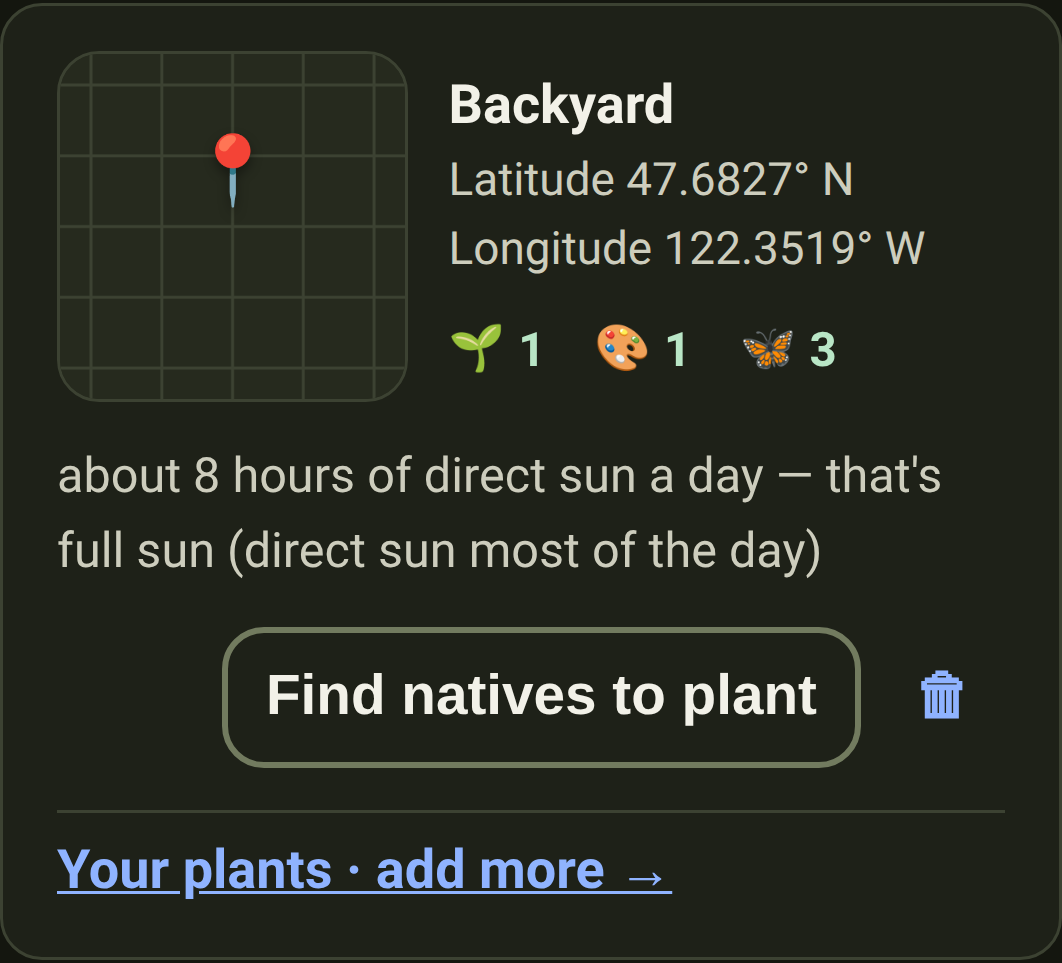
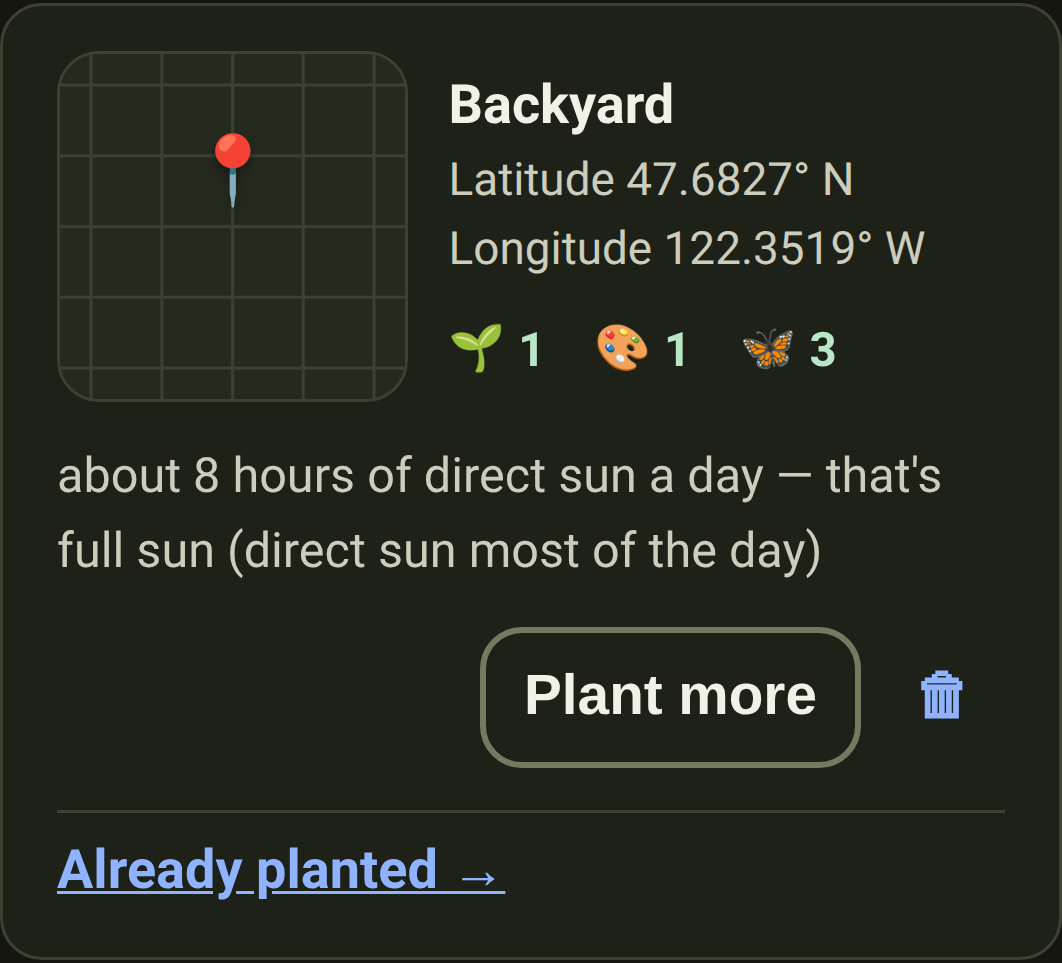
Saved spot: "Plant more" and "Already planted →"
The saved card's button and the spot page's matching button read "Plant
more"; the log link reads "Already planted →", or "Start a plant log →"
when nothing's logged. French: "Planter plus", "Déjà planté →",
"Commencer un journal →".

Claude-Session: https://claude.ai/code/session_018zzsiDNQMxPTZfDvDW2S5X

diff --git a/app/src/locales/fr.ts b/app/src/locales/fr.ts
@@ -262,7 +262,7 @@ export const fr: Dict = {
     "Rien d'enregistré pour l'instant. Trouvez un lieu et touchez « Enregistrer ce lieu » pour le garder ici, sur votre téléphone.",
   "saved.find": "Trouver un lieu",
   "saved.sunUnknown": "Soleil non mesuré",
-  "saved.open": "Trouver quoi planter",
+  "saved.open": "Planter plus",
   "saved.deleteLabel": "Supprimer {label}",
   "saved.confirmDelete": "Supprimer « {label} » ? C'est définitif.",
   "saved.deleted": "Supprimé.",
@@ -275,8 +275,8 @@ export const fr: Dict = {
   "saved.statKinds.other": "{count} espèces de plantes différentes",
   "saved.statWildlife.one": "{count} espèce animale que ces plantes peuvent nourrir",
   "saved.statWildlife.other": "{count} espèces animales que ces plantes peuvent nourrir",
-  "saved.openLog": "Vos plantes · en ajouter →",
-  "saved.startLog": "Ajouter ce que vous avez planté →",
+  "saved.openLog": "Déjà planté →",
+  "saved.startLog": "Commencer un journal →",
 
   // ---------------------------------------------------------------------
   // La page d'un lieu : le journal des plantations. Ce qui a été planté,
@@ -285,7 +285,7 @@ export const fr: Dict = {
   "spot.docTitle": "{label} — Indigene",
   "spot.notFound": "Ce lieu n'est pas sur cet appareil.",
   "spot.backToSaved": "Vos lieux enregistrés",
-  "spot.seePlants": "Trouver quoi planter",
+  "spot.seePlants": "Planter plus",
   "spot.rename": "Renommer",
   "spot.renamePrompt": "Nommer ce lieu",
   "spot.renamed": "Renommé.",

diff --git a/app/src/locales/en.ts b/app/src/locales/en.ts
@@ -243,7 +243,7 @@ export const en = {
   "saved.empty": "Nothing saved yet. Find a spot and tap “Save this spot” to keep it here on your phone.",
   "saved.find": "Find a spot",
   "saved.sunUnknown": "Sun not recorded",
-  "saved.open": "Find natives to plant",
+  "saved.open": "Plant more",
   "saved.deleteLabel": "Delete {label}",
   "saved.confirmDelete": "Delete “{label}”? This can't be undone.",
   "saved.deleted": "Deleted.",
@@ -255,8 +255,8 @@ export const en = {
   "saved.statKinds.other": "{count} different kinds of plant",
   "saved.statWildlife.one": "{count} kind of wildlife these plants can feed",
   "saved.statWildlife.other": "{count} kinds of wildlife these plants can feed",
-  "saved.openLog": "Your plants · add more →",
-  "saved.startLog": "Add what you've planted →",
+  "saved.openLog": "Already planted →",
+  "saved.startLog": "Start a plant log →",
 
   // ---------------------------------------------------------------------
   // One spot's page: the planting log. What went in, when, and what it
@@ -265,7 +265,7 @@ export const en = {
   "spot.docTitle": "{label} — Indigene",
   "spot.notFound": "That spot isn't on this device.",
   "spot.backToSaved": "Your saved spots",
-  "spot.seePlants": "Find natives to plant",
+  "spot.seePlants": "Plant more",
   "spot.rename": "Rename",
   "spot.renamePrompt": "Name this spot",
   "spot.renamed": "Renamed.",

diff --git a/CHANGELOG.md b/CHANGELOG.md
@@ -73,8 +73,8 @@ subtitle on the What's new page.
 
 ### Changed
 
-- Matches: the buttons on a saved spot say what they do. "Open" is now "Find
-  natives to plant", and the link under it reads "Your plants · add more".
+- Matches: the buttons on a saved spot say what they do. "Open" is now "Plant
+  more", and the link to what's in the ground reads "Already planted".
   https://indigene.app/#/saved
 - Internal: re-saving an open saved spot from the plant list now keeps its
   name as the default, its invasives list and its first-saved date, instead of
